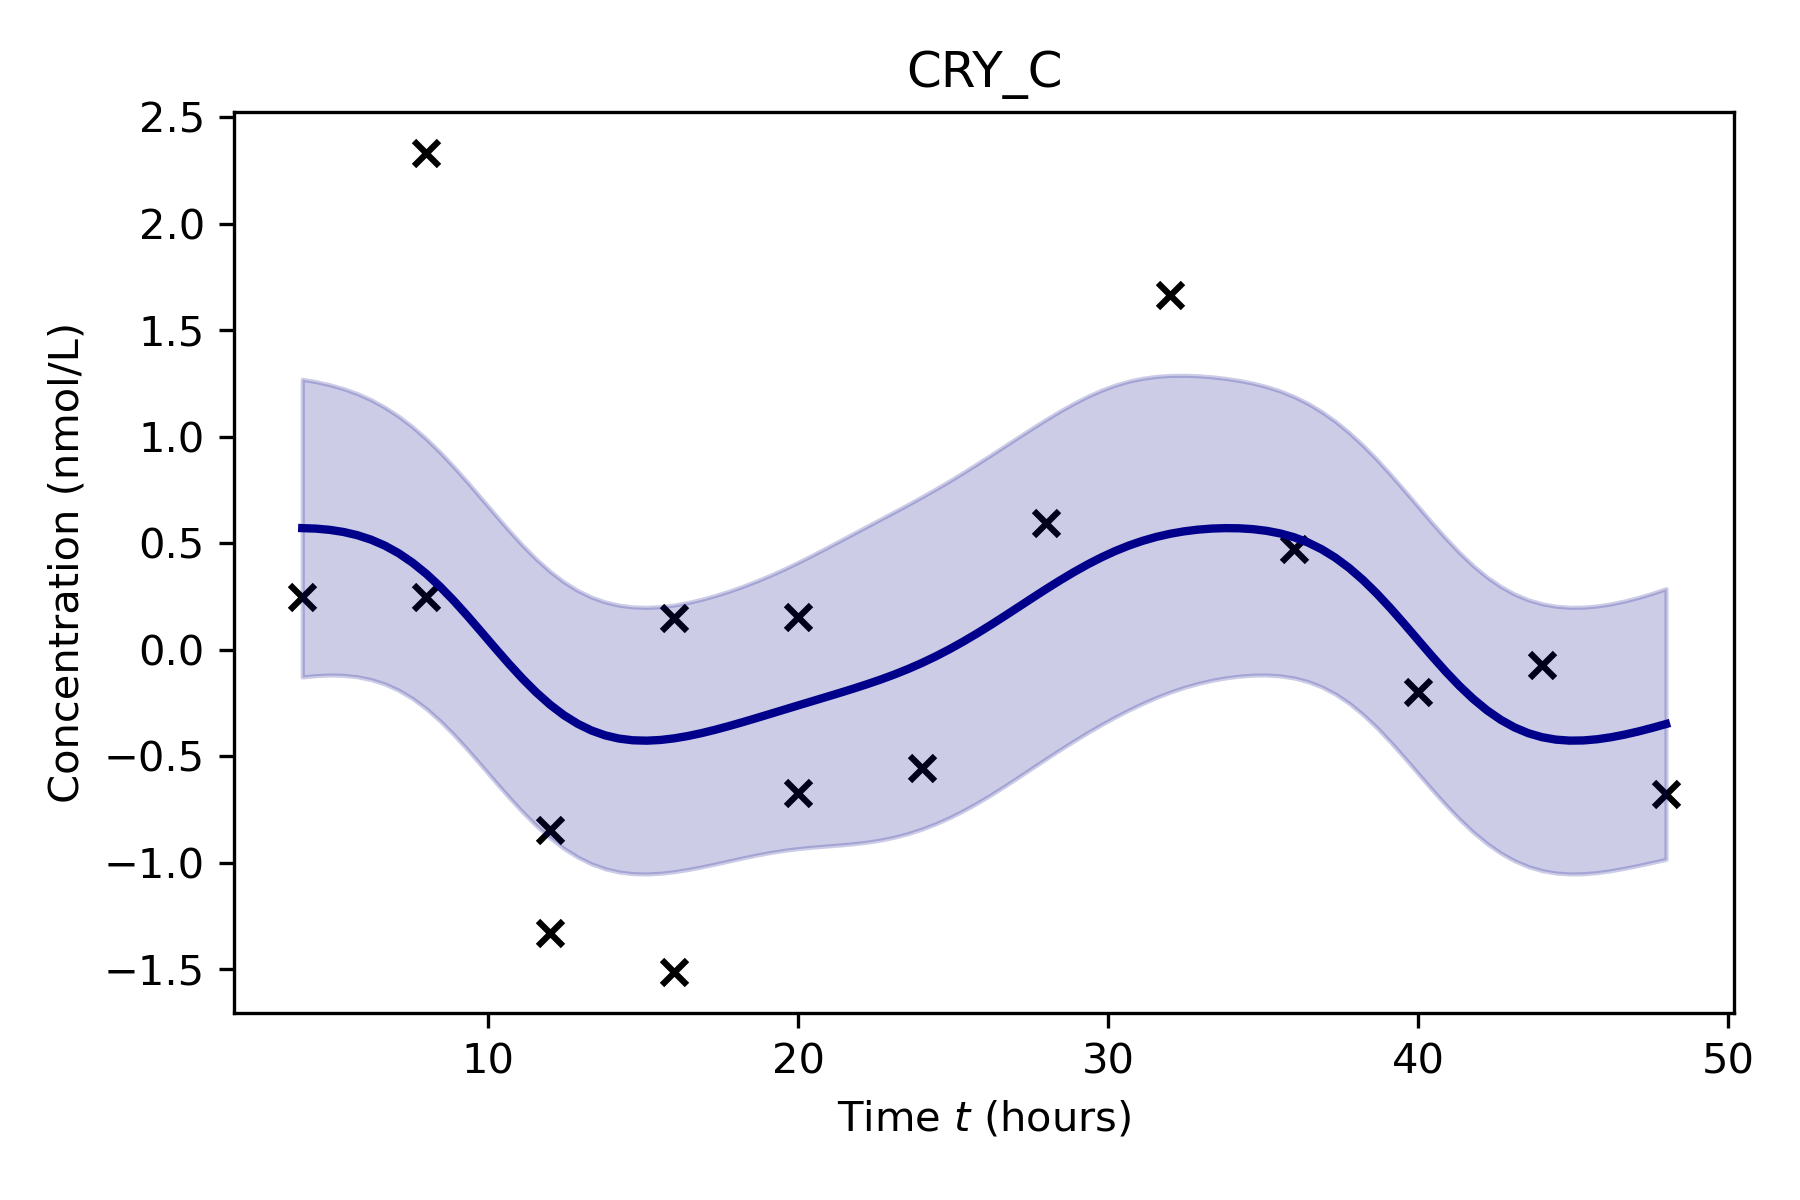
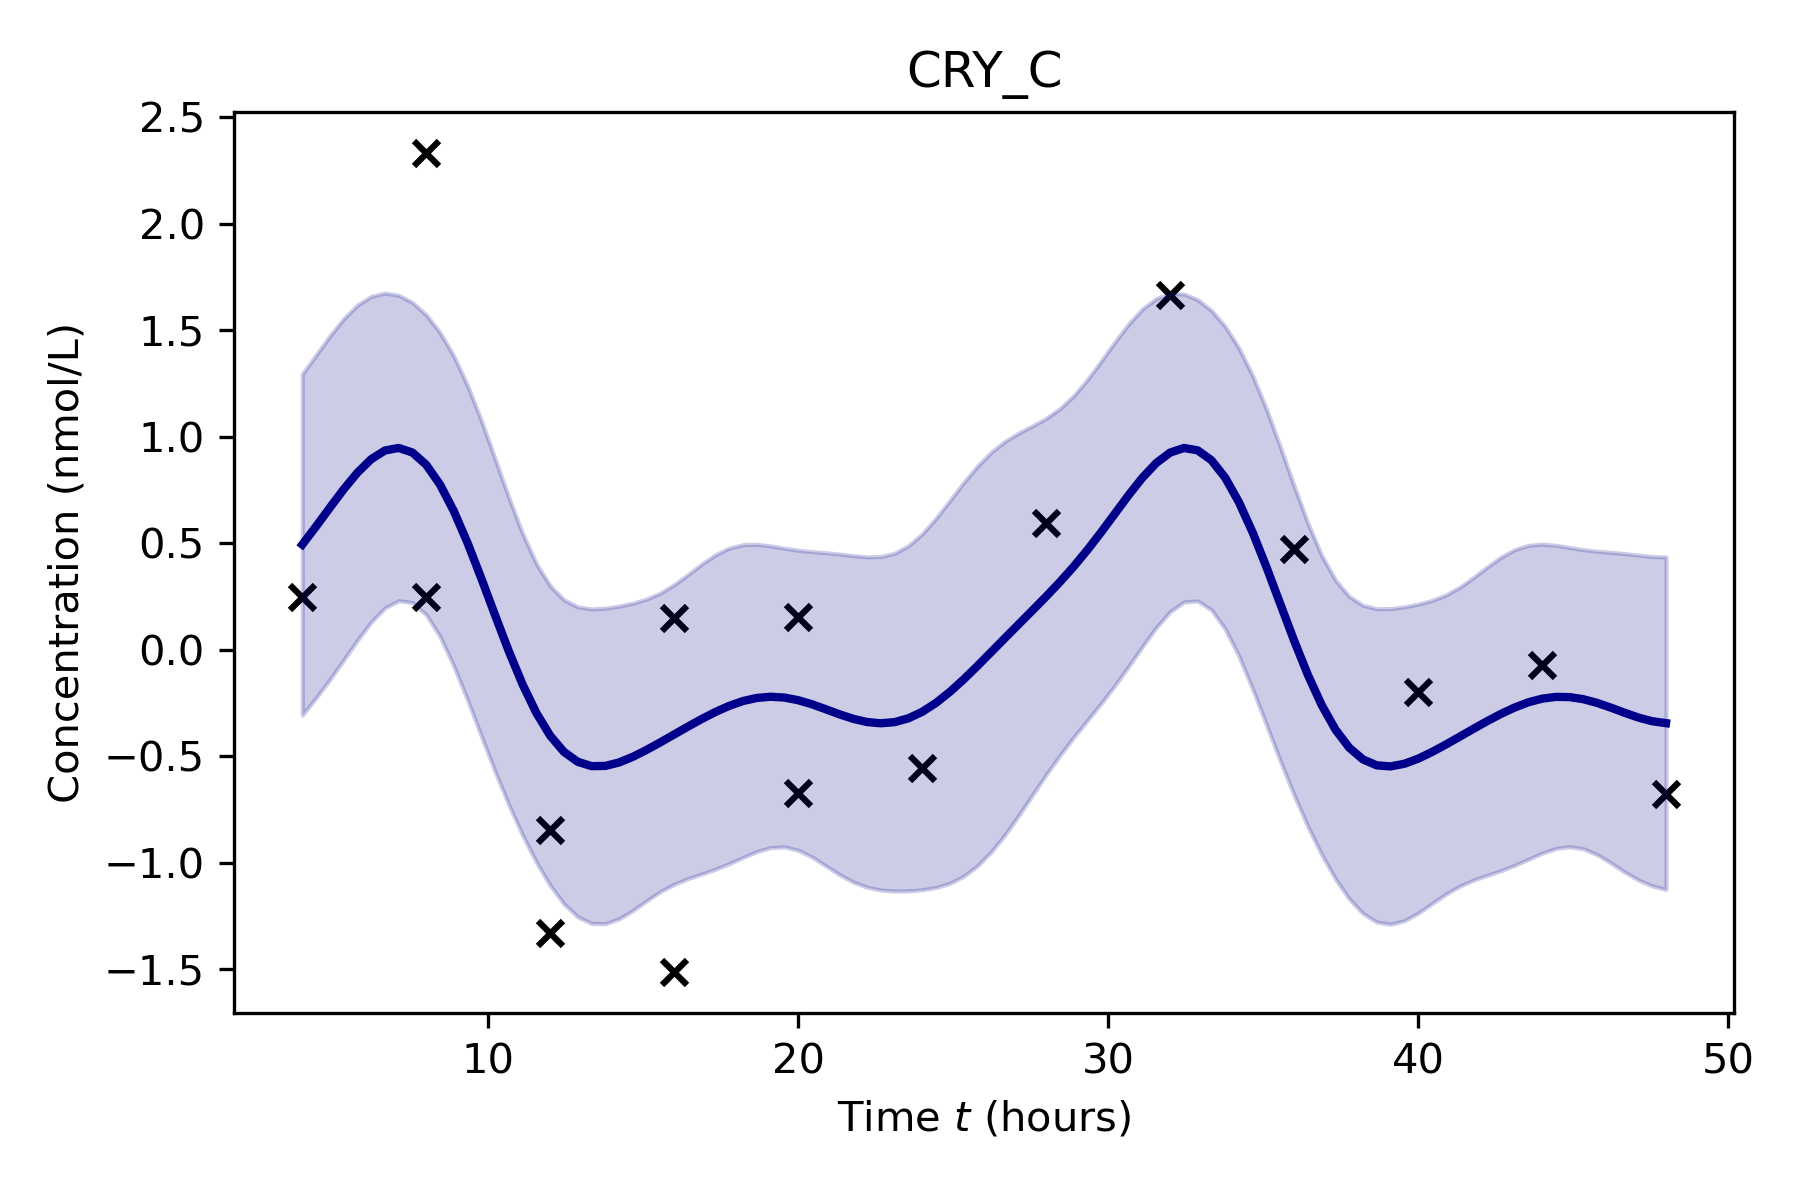
Réglage des options

diff --git a/Interpolation_processus_gaussiens.py b/Interpolation_processus_gaussiens.py
@@ -11,7 +11,7 @@ from botorch.fit import fit_gpytorch_model
 from gpytorch.mlls import ExactMarginalLogLikelihood
 from gpytorch.constraints import Interval
 from gpytorch.priors import NormalPrior
-from utils import normalize_data, plot_GP, multiple_plot_GP
+from utils import normalize_data, plot_GP, multiple_plot_GP, denormalize_data
 
 
 def interpolation_GP_arn(X_observation, y_observation, type_kernel, type_package, name_specie):
@@ -29,7 +29,7 @@ def interpolation_GP_arn(X_observation, y_observation, type_kernel, type_package
                                  covar_module=k_per)
             
         elif type_kernel == "Range" :
-            k_per = ScaleKernel(PeriodicKernel(period_length_constraint=Interval(30, 45), lengthscale=10)) # Scale kernel adds the amplitude hyperparameter to the kernel
+            k_per = ScaleKernel(PeriodicKernel(period_length_constraint=Interval(15, 45), lengthscale=10)) # Scale kernel adds the amplitude hyperparameter to the kernel
             model_per = SingleTaskGP(X_observation, y_observation,
                                  covar_module=k_per)
             
@@ -121,14 +121,18 @@ for i, name in enumerate(list_species) :
     # Normalize data
     y_observation_tensor_normalized, y_mean, y_std = normalize_data(y_observation_tensor)
     
-    mean_specie, var_specie, time = interpolation_GP_arn(X_observation_tensor, y_observation_tensor_normalized, type_kernel = kernel_method, type_package = package_method, name_specie = name)
-    plot_GP(X_observation_tensor, y_observation_tensor_normalized, mean_specie, time, var_specie, name, "RNA_Seq")
+    mean_specie_normalized, var_specie_normalized, time = interpolation_GP_arn(X_observation_tensor, y_observation_tensor_normalized, type_kernel = kernel_method, type_package = package_method, name_specie = name)
+    
+    #mean_specie = denormalize_data(mean_specie_normalized, y_mean, y_std)
+    #var_specie = denormalize_data(var_specie_normalized, y_mean, y_std)
+    
+    plot_GP(X_observation_tensor, y_observation_tensor_normalized, mean_specie_normalized, time, var_specie_normalized, name, "RNA_Seq")
 
     res_rna_seq[name]["X_observation_tensor"] = X_observation_tensor
     res_rna_seq[name]["y_observation_tensor_normalized"] = y_observation_tensor_normalized
     res_rna_seq[name]["time"] = time
-    res_rna_seq[name]["mean_specie"] = mean_specie
-    res_rna_seq[name]["var_specie"] = var_specie
+    res_rna_seq[name]["mean_specie"] = mean_specie_normalized
+    res_rna_seq[name]["var_specie"] = var_specie_normalized
     
 multiple_plot_GP(list_species, res_rna_seq, "RNA_Seq")
 
@@ -166,14 +170,18 @@ for i, name in enumerate(list_species) :
     # Normalize data
     y_observation_tensor_normalized, y_mean, y_std = normalize_data(y_observation_tensor)
     
-    mean_specie, var_specie, time = interpolation_GP_arn(X_observation_tensor, y_observation_tensor_normalized, type_kernel = kernel_method, type_package = package_method, name_specie = name)
-    plot_GP(X_observation_tensor, y_observation_tensor_normalized, mean_specie, time, var_specie, name, "Prot")
+    mean_specie_normalized, var_specie_normalized, time = interpolation_GP_arn(X_observation_tensor, y_observation_tensor_normalized, type_kernel = kernel_method, type_package = package_method, name_specie = name)
+    
+    # mean_specie = denormalize_data(mean_specie_normalized, y_mean, y_std)
+    # var_specie = denormalize_data(var_specie_normalized, y_mean, y_std)
+
+    plot_GP(X_observation_tensor, y_observation_tensor_normalized, mean_specie_normalized, time, var_specie_normalized, name, "Prot")
 
     res_prot[name]["X_observation_tensor"] = X_observation_tensor
     res_prot[name]["y_observation_tensor_normalized"] = y_observation_tensor_normalized
     res_prot[name]["time"] = time
-    res_prot[name]["mean_specie"] = mean_specie
-    res_prot[name]["var_specie"] = var_specie
+    res_prot[name]["mean_specie"] = mean_specie_normalized
+    res_prot[name]["var_specie"] = var_specie_normalized
     
 multiple_plot_GP(list_species, res_prot, "Prot")
     
